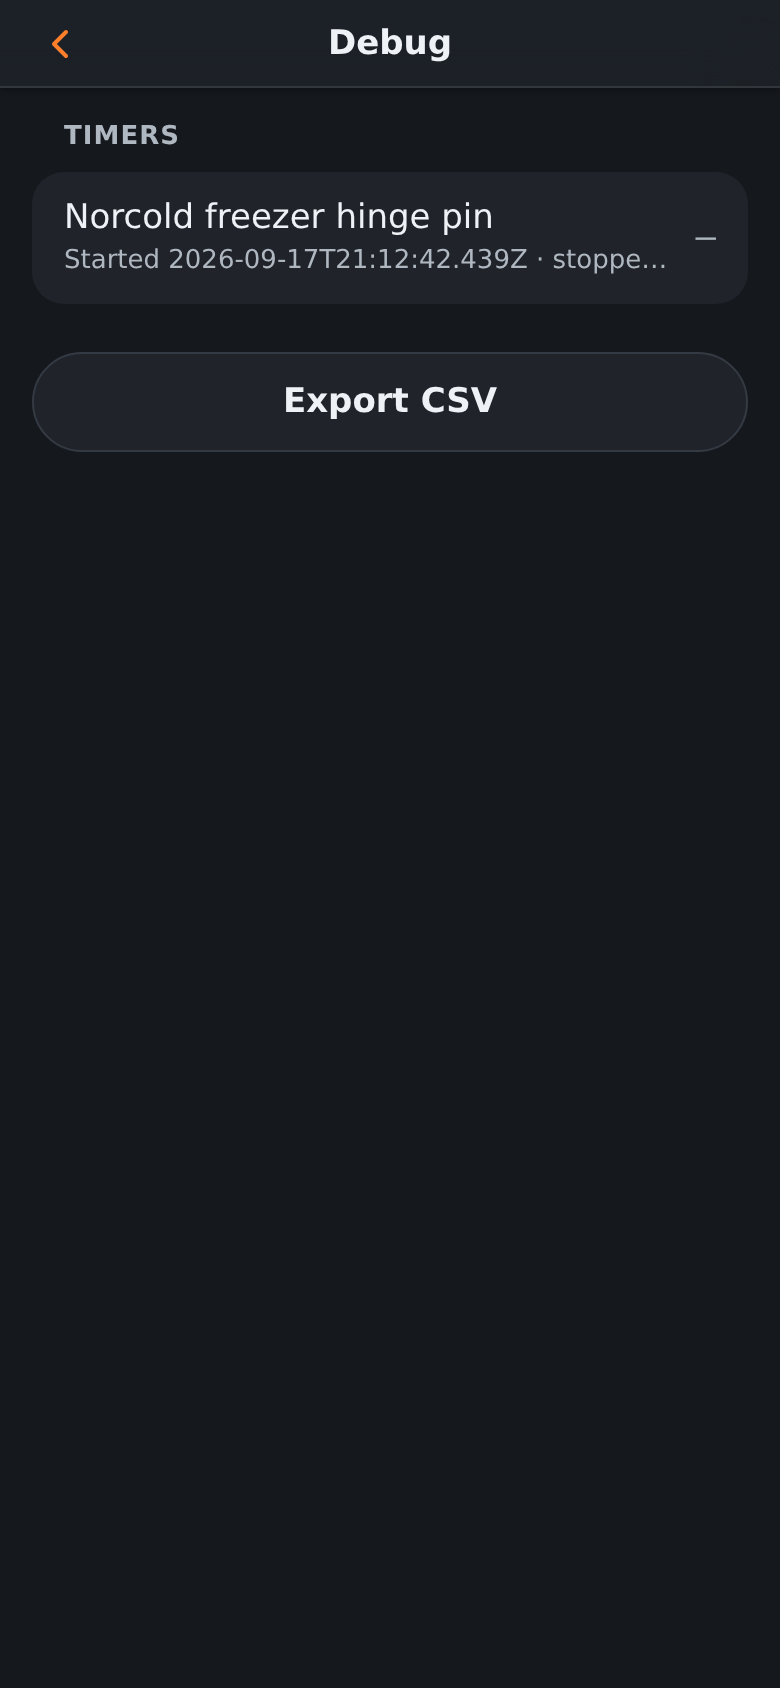
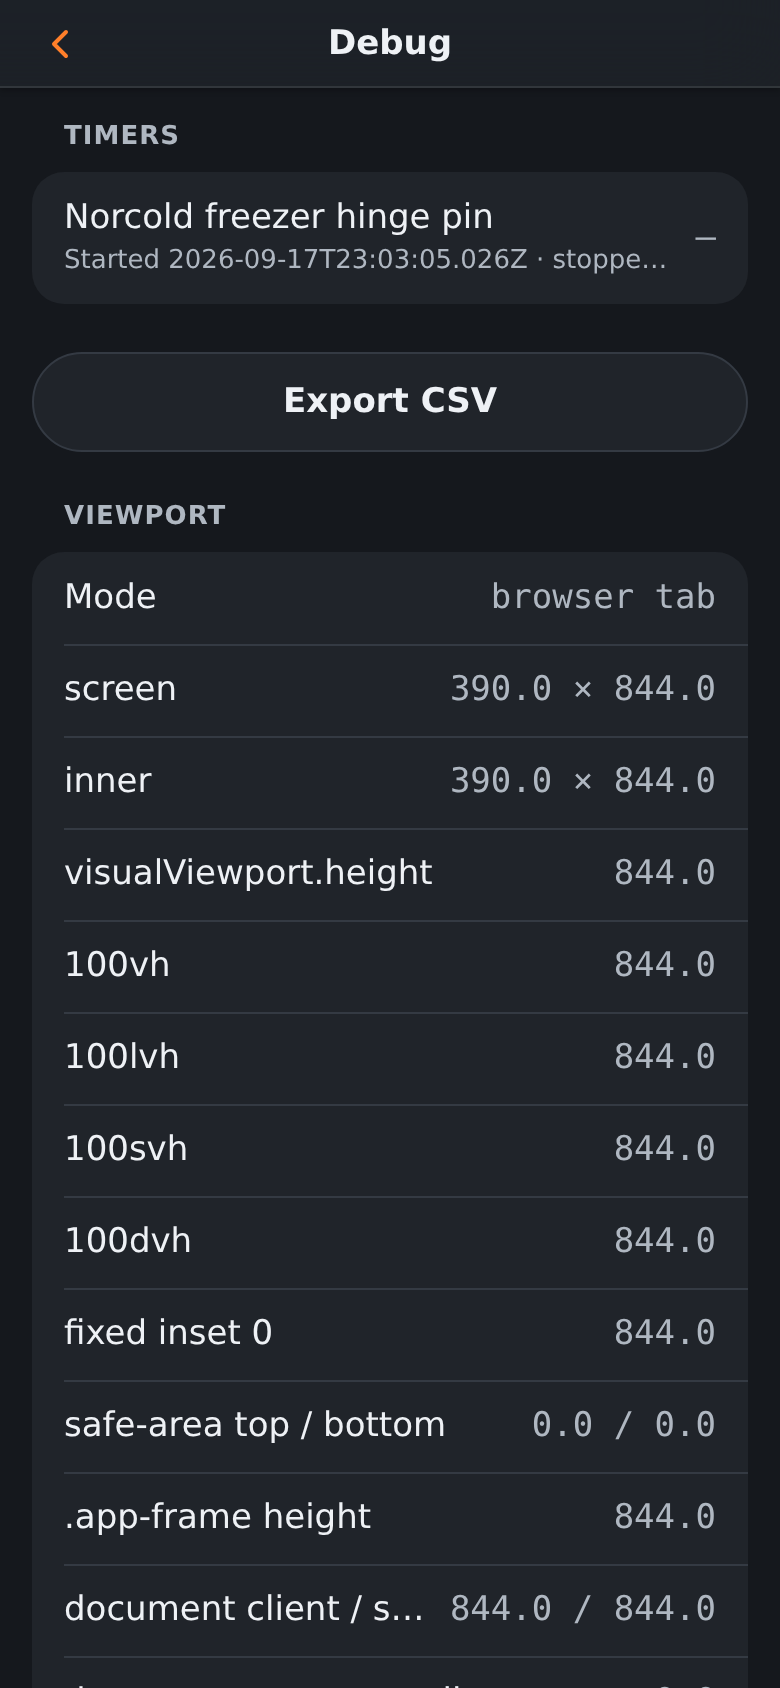
feat(shell): reach Settings from the Parts bar and Debug from Settings
Neither page had a way in from an installed app, which has no URL bar.
Shell gains a leading slot for root screens; the Parts root shows a gear
linking to Settings, Settings gets a Diagnostics row linking to Debug, and
Debug's Back returns to Settings. Spec walks the same path; screenshots
regenerated.

Claude-Session: https://claude.ai/code/session_01FsAhZaHgHGgbtGbZDXL5EZ

diff --git a/e2e/specs/shell.spec.js b/e2e/specs/shell.spec.js
@@ -11,15 +11,23 @@ test.describe('app shell', () => {
     await expect(page.getByRole('button', {name: 'New part'})).toBeVisible()
   })
 
-  test('#/settings and #/debug render their stubs; back returns to /', async ({page}) => {
-    await page.goto('/#/settings')
+  test('Settings is reached from the Parts bar, Debug from Settings; Back walks the same way home', async ({
+    page,
+  }) => {
+    // No URL bar in an installed app — the gear in the root bar is the only
+    // way in, and the Diagnostics row the only way on to Debug.
+    await page.goto('/')
+    await page.getByRole('link', {name: 'Settings'}).click()
+    await expect(page).toHaveURL(/#\/settings$/)
     await expect(page.locator('.shell-title')).toHaveText('Settings')
     await expect(page.getByText('Readings come from a wedge dongle')).toBeVisible()
     await page.getByRole('button', {name: 'Back'}).click()
     await expect(page).toHaveURL(/#\/?$/)
     await expect(page.locator('.shell-title')).toHaveText('Parts')
 
-    await page.goto('/#/debug')
+    await page.goto('/#/settings')
+    await page.getByTestId('debug-link').getByRole('link').click()
+    await expect(page).toHaveURL(/#\/debug$/)
     await expect(page.locator('.shell-title')).toHaveText('Debug')
     await expect(page.getByRole('heading', {name: 'Timers'})).toBeVisible()
     // Viewport readout (LOGBOOK 2026-09-17 "iOS 26/27 standalone"): every
@@ -27,6 +35,8 @@ test.describe('app shell', () => {
     await expect(page.getByRole('heading', {name: 'Viewport'})).toBeVisible()
     await expect(page.getByTestId('viewport-row')).toHaveCount(13)
     await expect(page.getByTestId('viewport-row').filter({hasText: '100dvh'})).toContainText('844.0')
+    await page.getByRole('button', {name: 'Back'}).click()
+    await expect(page).toHaveURL(/#\/settings$/)
     await page.getByRole('button', {name: 'Back'}).click()
     await expect(page).toHaveURL(/#\/?$/)
     await expect(page.locator('.shell-title')).toHaveText('Parts')

diff --git a/src/app/pages/Settings.css b/src/app/pages/Settings.css
@@ -15,3 +15,12 @@
   color: var(--cc-text);
   font: var(--cc-text-footnote);
 }
+
+/* Leading glyph on the Diagnostics row — same slot `Ui.ListThumb` fills on
+   part/face rows, sized for a 20 px Lucide icon instead of a thumbnail. */
+.list-row-leading {
+  display: flex;
+  flex: none;
+  align-items: center;
+  color: var(--cc-text-2);
+}

diff --git a/LOGBOOK.md b/LOGBOOK.md
@@ -2164,3 +2164,19 @@ that text. Branch `agent/a10-folders`, not pushed.
 - **Tooling note.** `resq set decl` hung indefinitely on `Canvas.res` for an `@val @scope(...)`
   external (killed after 5 min, file untouched — writes are atomic as promised); appended with a
   heredoc instead. Not reproduced or chased here.
+
+## 2026-09-17 — Settings and Debug were unreachable from the installed app
+
+- **Reported as "Debug? As in Safari inspector".** Fair: nothing linked to `#/settings` or
+  `#/debug`, and a home-screen app has no URL bar, so both pages only ever existed for this
+  sandbox's Playwright runs. The Snap and wedge toggles were equally unreachable on the phone.
+- **Fix.** `Shell` gained a `leading` slot, rendered only when a page has no Back (the root); the
+  Parts root puts a gear there (`settings-link`, an anchor to `#/settings`, `aria-label`
+  "Settings" — HIG: one bar button on the root). Settings gained a Diagnostics group with a
+  "Debug" row (`debug-link`, bug glyph, chevron) and Debug's Back now returns to Settings, not
+  Parts, so Back retraces the way in. `.list-row-leading` in `Settings.css` sizes the glyph in
+  the slot `Ui.ListThumb` fills on part rows.
+- **Verified.** `rescript build` clean; Chromium e2e 47/47 with `shell.spec.js` rewritten to
+  reach both pages through the UI and walk Back → Settings → Parts; a11y "first Tab on the root
+  lands on a real control" still holds (it is now the gear). Screenshot tour regenerated
+  (`12-parts-list`, `09-settings`, `10-debug` show the three changes).

diff --git a/docs/testids.md b/docs/testids.md
@@ -175,7 +175,10 @@ stable; add to this list before you rely on a new one.
   `name` → Save → `annotate-canvas`.
 
 ## Settings (`#/settings`)
+- `settings-link` — the gear in the Parts root bar's leading slot (`aria-label="Settings"`), the only way
+  in from an installed app
 - `wedge-toggle` — "Readings come from a wedge dongle" checkbox
+- `debug-link` — the Diagnostics row (anchor inside) that opens `#/debug`; Debug's Back returns here
 - `snap-setting-toggle` — "Snap taps to edges" checkbox (SPEC §8a A5; the annotate toolbar's
   `snap-toggle` flips the same `settings.snap`)
 
